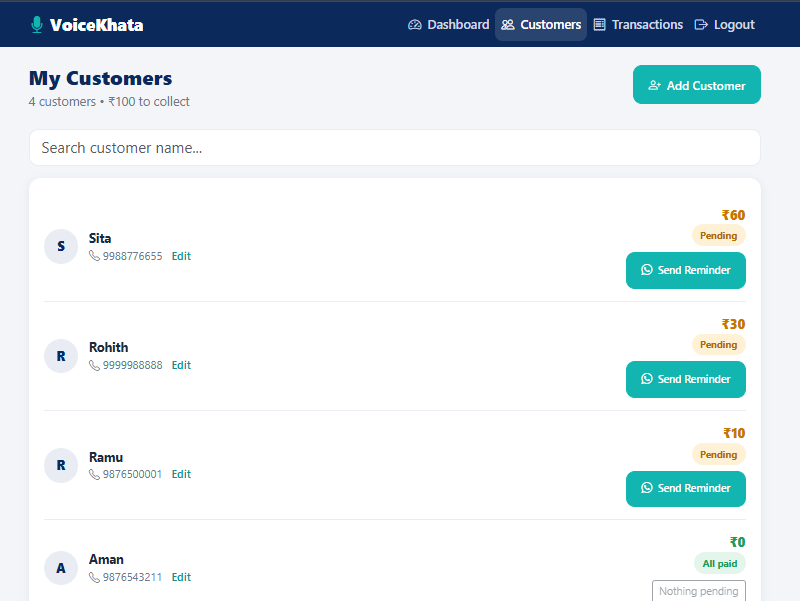
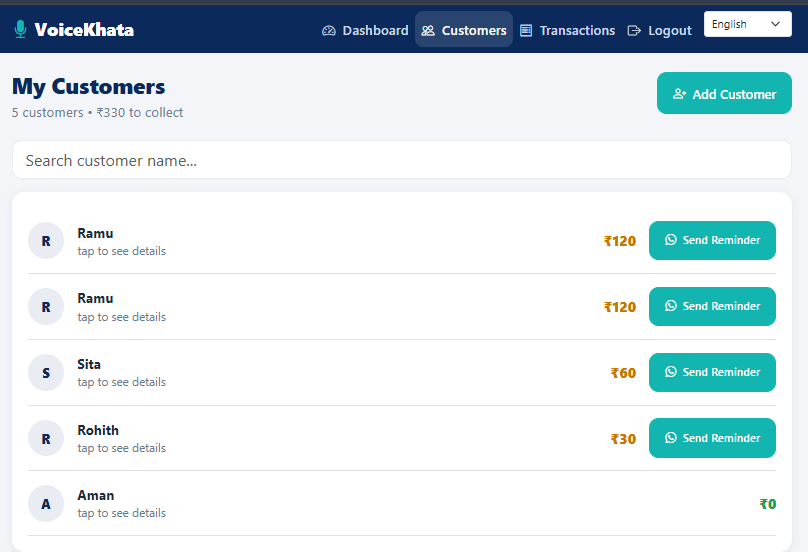
Add owner and customer roles, grouped transactions, customer portal, updated README

diff --git a/README.md b/README.md
@@ -23,7 +23,7 @@ VoiceKhata provides a simple digital solution to record credit and payment trans
 
 ### Vendor / Owner Features
 
-- Vendor registration and login using phone number and 4-digit PIN
+- Registration with a role dropdown (Shop Owner or Customer) and login using phone number and 4-digit PIN
 - Secure PIN hashing using BCrypt
 - Dashboard showing pending dues, total customers, monthly transactions, and recent transactions
 - Voice-based transaction entry in English, Hindi, and Telugu
@@ -40,14 +40,18 @@ VoiceKhata provides a simple digital solution to record credit and payment trans
 - Edit and delete transactions
 - WhatsApp payment reminders with prefilled messages
 - Multilingual landing page
+- Customers and transactions grouped by person: click a person to see their history
+- Separate Credit (took) and Payment (paid) columns in each person's history
+- Hindi and Telugu interface for the owner and customer pages
 
 ### Customer Features
 
-- Customer Portal
-- View outstanding dues
-- View customer-specific transaction information
-- Review credit records
-- Review payment records
+- Register as a Customer and log in with phone number and PIN
+- Role-based access: customers can open only the customer portal, and owners only the owner pages
+- Read-only dashboard showing the total amount owed across all shops
+- One card for each shop; click a shop to see the entries
+- Separate Credit (took) and Payment (paid) columns with totals
+- Link to the shop owner by the phone number saved in the owner's customer list
 
 ---
 
@@ -67,11 +71,12 @@ VoiceKhata provides a simple digital solution to record credit and payment trans
 
 ### Customer Workflow
 
-1. Open the Customer Portal.
-2. Access customer dues information.
-3. View outstanding balance.
-4. Check transaction history.
-5. Review credit and payment records.
+1. Open VoiceKhata and choose Register.
+2. Select "Customer" in the "I am a" dropdown.
+3. Register with the same phone number that the shop owner saved for you.
+4. Log in. You are taken to the customer dashboard.
+5. See the total you owe across all shops.
+6. Click a shop to see your entries and totals.
 
 ---
 
@@ -368,8 +373,8 @@ VoiceKhata uses REST APIs to connect the frontend with the Spring Boot backend.
 | Method | Endpoint | Purpose |
 |---|---|---|
 | GET | `/api/health` | Check backend availability |
-| POST | `/api/auth/register` | Register a vendor |
-| POST | `/api/auth/login` | Vendor login |
+| POST | `/api/auth/register` | Register an account (role: OWNER or CUSTOMER) |
+| POST | `/api/auth/login` | Login; the reply includes the role |
 | POST | `/api/auth/logout` | End vendor session |
 | GET | `/api/customers` | Retrieve customers |
 | POST | `/api/customers` | Add a customer |
@@ -380,8 +385,14 @@ VoiceKhata uses REST APIs to connect the frontend with the Spring Boot backend.
 | PUT | `/api/transactions/{id}` | Update a transaction |
 | DELETE | `/api/transactions/{id}` | Delete a transaction |
 | GET | `/api/dashboard` | Retrieve dashboard information |
+| GET | `/api/my/dues` | Customer dashboard: dues and entries at every shop (customer accounts only) |
 
-Customer Portal APIs are also implemented to provide customer dues and transaction information.
+### Role-Based Access
+
+- The owner APIs (customers, transactions, dashboard) accept only OWNER accounts.
+- The customer API (`/api/my/dues`) accepts only CUSTOMER accounts.
+- A request with the wrong role gets a 403 (Forbidden) reply with a clear message.
+- A customer's dues are found by matching the customer's login phone number with the phone number saved in the shop owner's customer list.
 
 All protected endpoints require the appropriate authorization header:
 
@@ -422,27 +433,22 @@ cd VoiceKhata
 2. Open `database/schema.sql`.
 3. Execute the SQL script.
 4. Make sure the database is created successfully.
+The script creates the `voicekhata` database with the `vendors`, `customers` and `transactions` tables. The `vendors` table includes the `role` column (OWNER or CUSTOMER).
 
 ### 3. Configure Backend
 
-Open the backend project in Eclipse.
+The real configuration file is not uploaded to GitHub because it contains a password. Create it from the example file:
 
-Locate:
-
-```text
-backend/src/main/resources/application.properties
-```
-
-Configure your MySQL connection settings:
+1. Open `backend/src/main/resources/`.
+2. Make a copy of `application.properties.example` in the same folder.
+3. Rename the copy to `application.properties`.
+4. Open it and replace `YOUR_MYSQL_PASSWORD` with your local MySQL password.
 
 ```properties
-spring.datasource.url=jdbc:mysql://localhost:3306/voicekhata
+spring.datasource.url=jdbc:mysql://localhost:3306/voicekhata?useSSL=false&allowPublicKeyRetrieval=true&serverTimezone=Asia/Kolkata
 spring.datasource.username=root
 spring.datasource.password=YOUR_MYSQL_PASSWORD
 ```
-
-Replace `YOUR_MYSQL_PASSWORD` with your local MySQL password.
-
 ### 4. Run Backend
 
 1. Open the backend project in Eclipse.
